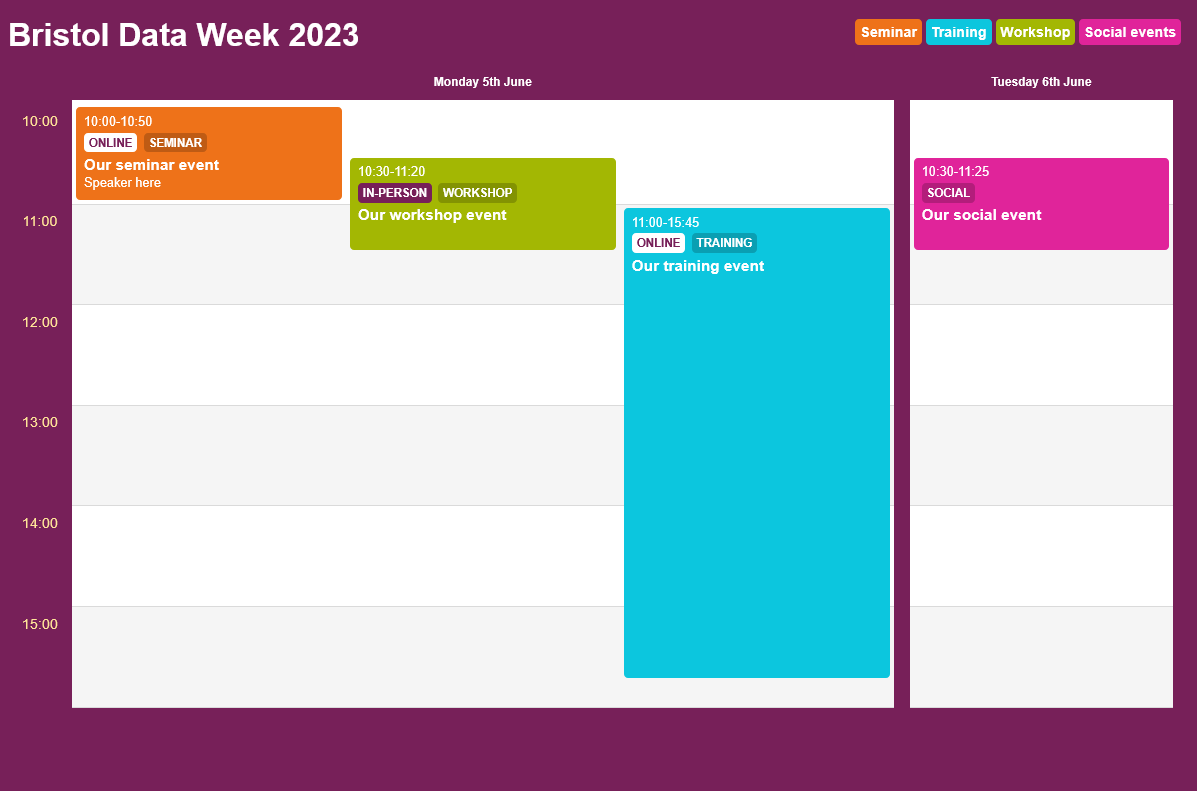
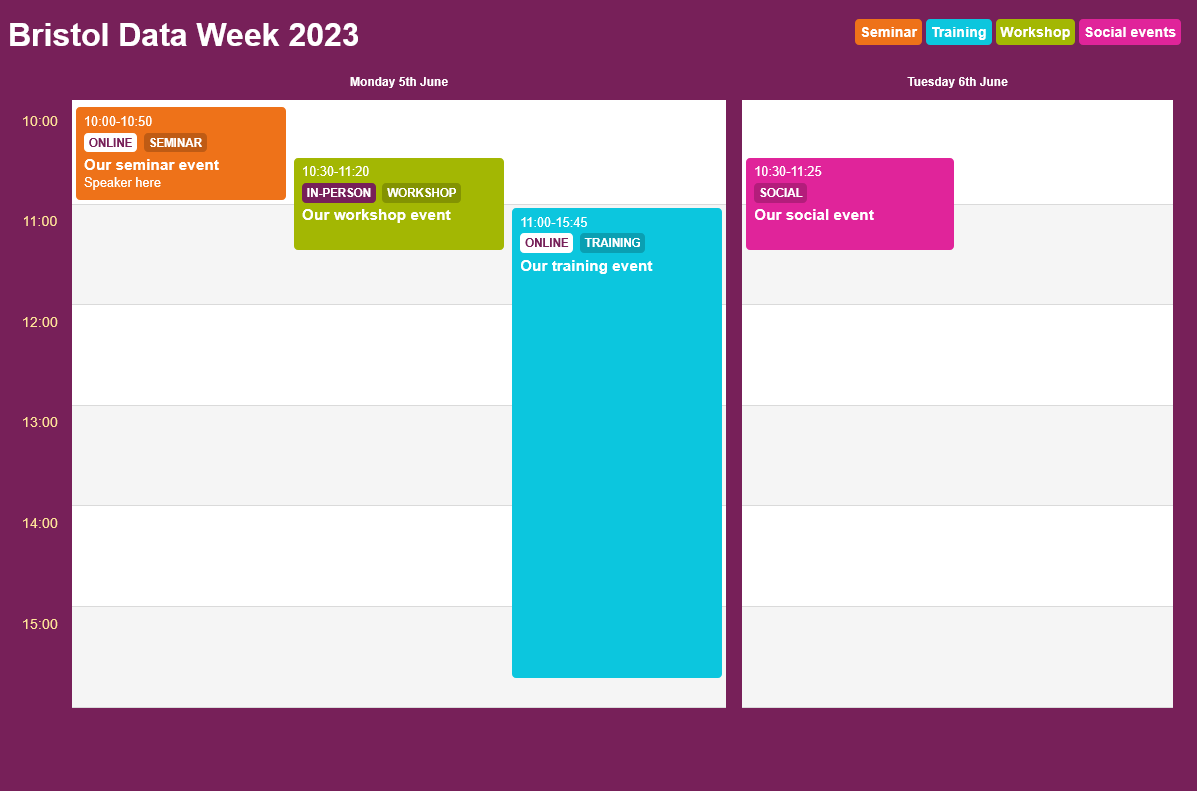
Add version 0.6
(Added 2025-03-18)

Changed region(s): [[0.2164, 0.091, 0.9891, 0.9102], [0.7728, 0.091, 0.9273, 0.1214]]

diff --git a/index.html b/index.html
@@ -1,7 +1,7 @@
 <!DOCTYPE html>
 <!--
-    SinglePageSchedule v0.5
-    Copyright (C) 2022-2023, James Thomas (MIT License)
+    SinglePageSchedule v0.6
+    Copyright (C) 2022-2024, James Thomas (MIT License)
     Redistribution and use in source and binary forms, with or without modification, are permitted provided that the following conditions are met:
     1. Redistributions of source code must retain the above copyright notice, this list of conditions and the following disclaimer.
     2. Redistributions in binary form must reproduce the above copyright notice, this list of conditions and the following disclaimer in the documentation and/or other materials provided with the distribution.
@@ -12,7 +12,7 @@
     <head>
         <meta charset="utf-8">
         <meta name="viewport" content="width=device-width, initial-scale=1">
-        <title>SinglePageSchedule v0.5</title>
+        <title>SinglePageSchedule v0.6</title>
         <style>
             *,
             *:before,
@@ -23,18 +23,24 @@
                 font-family: Arial, Helvetica, sans-serif;
             }
             input {
-                margin: 1rem 0;
+                margin: 0 0 1rem;
                 width: 100%;
                 display: block;
             }
             textarea {
-                margin: 1rem 0;
+                margin: 0 0 1rem;
                 width: 100%;
                 height: 20rem;
                 display: block;
                 tab-size: 12;
                 white-space: pre;
             }
+			details {
+				margin: 0 0 1rem;
+			}
+			fieldset {
+				padding-top: 1rem;
+			}
             #result {
                 color: red;
             }
@@ -44,17 +50,26 @@
         </style>
     </head>
     <body>
-        <h1>SinglePageSchedule <small>v0.5</small></h1>
+        <h1>SinglePageSchedule <small>v0.6</small></h1>
         <form id="template_form">
-            <input id="conference_name" placeholder="Enter a conference name here (goes in the page title)" required disabled>
-            <input id="conference_description" placeholder="Enter a conference description here (for search engines)" required disabled>
-            <input id="conference_url" placeholder="Enter URL for the main conference page (for the back link)" required disabled>
-            <textarea id="source" placeholder="Paste table of event data from Excel here" required disabled></textarea>
+            <label>Conference name: <input id="conference_name" placeholder="Enter a conference name here (goes in the page title)" required disabled></label>
+            <label>Conference description: <input id="conference_description" placeholder="Enter a conference description here (for search engines)" required disabled></label>
+            <label>Conference URL: <input id="conference_url" placeholder="Enter URL for the main conference page (for the back link)" required disabled></label>
+			<details>
+				<summary>Advanced settings</summary>
+				<fieldset>
+					<label>Minimum number of columns per day: <input id="min_columns" type="number" value="0" min="0" required disabled></label>
+				</fieldset>
+			</details>
+            <label>
+				Event data:
+				<textarea id="source" placeholder="Paste table of event data from Excel here" required disabled></textarea>
+			</label>
             <button id="preview" disabled>Preview</button>
             <button id="download" disabled>Save as webpage</button>
             <button id="download_calendar" disabled>Save as calendar</button>
             <button id="example" disabled>Get example data</button>
-            <button id="clear" disabled>Clear</button>
+            <button id="clear" disabled>Clear all</button>
         </form>
         <div id="result"></div>
 
@@ -105,6 +120,9 @@
 
                 conference_url.onchange = updateCache;
                 conference_url.disabled = false;
+
+                min_columns.onchange = updateCache;
+                min_columns.disabled = false;
 
                 source.onchange = updateCache;
                 source.disabled = false;
@@ -162,7 +180,7 @@
                 const gridTimes = d3.timeTicks(minTime, maxTime, quarterHourly);
                 const labelTimes = d3.timeTicks(minTime, maxTime, d3.timeHour);
                 const labelGridStep = gridTimes.map(x => +x).indexOf(+labelTimes[1]);
-                const overallMaxColumns = d3.max(data, x => +x.column);
+                const overallMaxColumns = d3.max([d3.max(data, x => +x.column), min_columns.value]);
 
                 // Sort by datetime of event start, and then column
                 data.sort((a, b) => a.column - b.column)
@@ -177,7 +195,7 @@
                     days: d3.map(data, ([date, events]) => ({
                         date: date,
                         events: events,
-                        num_columns: d3.max(events, event => +event.column)
+                        num_columns: d3.max([d3.max(events, event => +event.column), min_columns.value])
                     })),
                     gridTimes: gridTimes,
                     labelTimes: labelTimes,
@@ -277,6 +295,7 @@
                 conference_name.value = "Bristol Data Week 2023";
                 conference_description.value = "Exploring how we can make data work for everyone. Join us for Bristol Data Week 2023 (5–9 June); an interactive programme of speakers, training, and workshops, open to all and completely free of charge.";
                 conference_url.value = "https://www.bristol.ac.uk/golding/events/data-week/";
+                min_columns.value = 2;
                 source.value = exampleSource.innerHTML.replaceAll(/^\s*/gm, '').replaceAll(/,/g, '\t');
                 source.onchange();
             }
@@ -286,6 +305,7 @@
                 conference_name.value = '';
                 conference_description.value = '';
                 conference_url.value = '';
+                min_columns.value = 0;
                 source.value = '';
                 conference_name.onchange();
                 conference_name.focus();
@@ -295,6 +315,7 @@
                 conference_name.value = localStorage.conference_name ?? '';
                 conference_description.value = localStorage.conference_description ?? '';
                 conference_url.value = localStorage.conference_url ?? '';
+                min_columns.value = localStorage.min_columns ?? '';
                 source.value = localStorage.source ?? '';
             }
 
@@ -302,6 +323,7 @@
                 localStorage.conference_name = conference_name.value;
                 localStorage.conference_description = conference_description.value;
                 localStorage.conference_url = conference_url.value;
+                localStorage.min_columns = min_columns.value;
                 localStorage.source = source.value;
             }
 
@@ -383,8 +405,8 @@
         <script id="html_template" type="text/x-handlebars-template">
             <!DOCTYPE html>  
             <!--  
-            Generated by SinglePageSchedule v0.5  
-            Copyright (C) 2022-2023, James Thomas (MIT License)  
+            Generated by SinglePageSchedule v0.6  
+            Copyright (C) 2022-2024, James Thomas (MIT License)  
             Redistribution and use in source and binary forms, with or without modification, are permitted provided that the following conditions are met:  
             1. Redistributions of source code must retain the above copyright notice, this list of conditions and the following disclaimer.  
             2. Redistributions in binary form must reproduce the above copyright notice, this list of conditions and the following disclaimer in the documentation and/or other materials provided with the distribution.  
